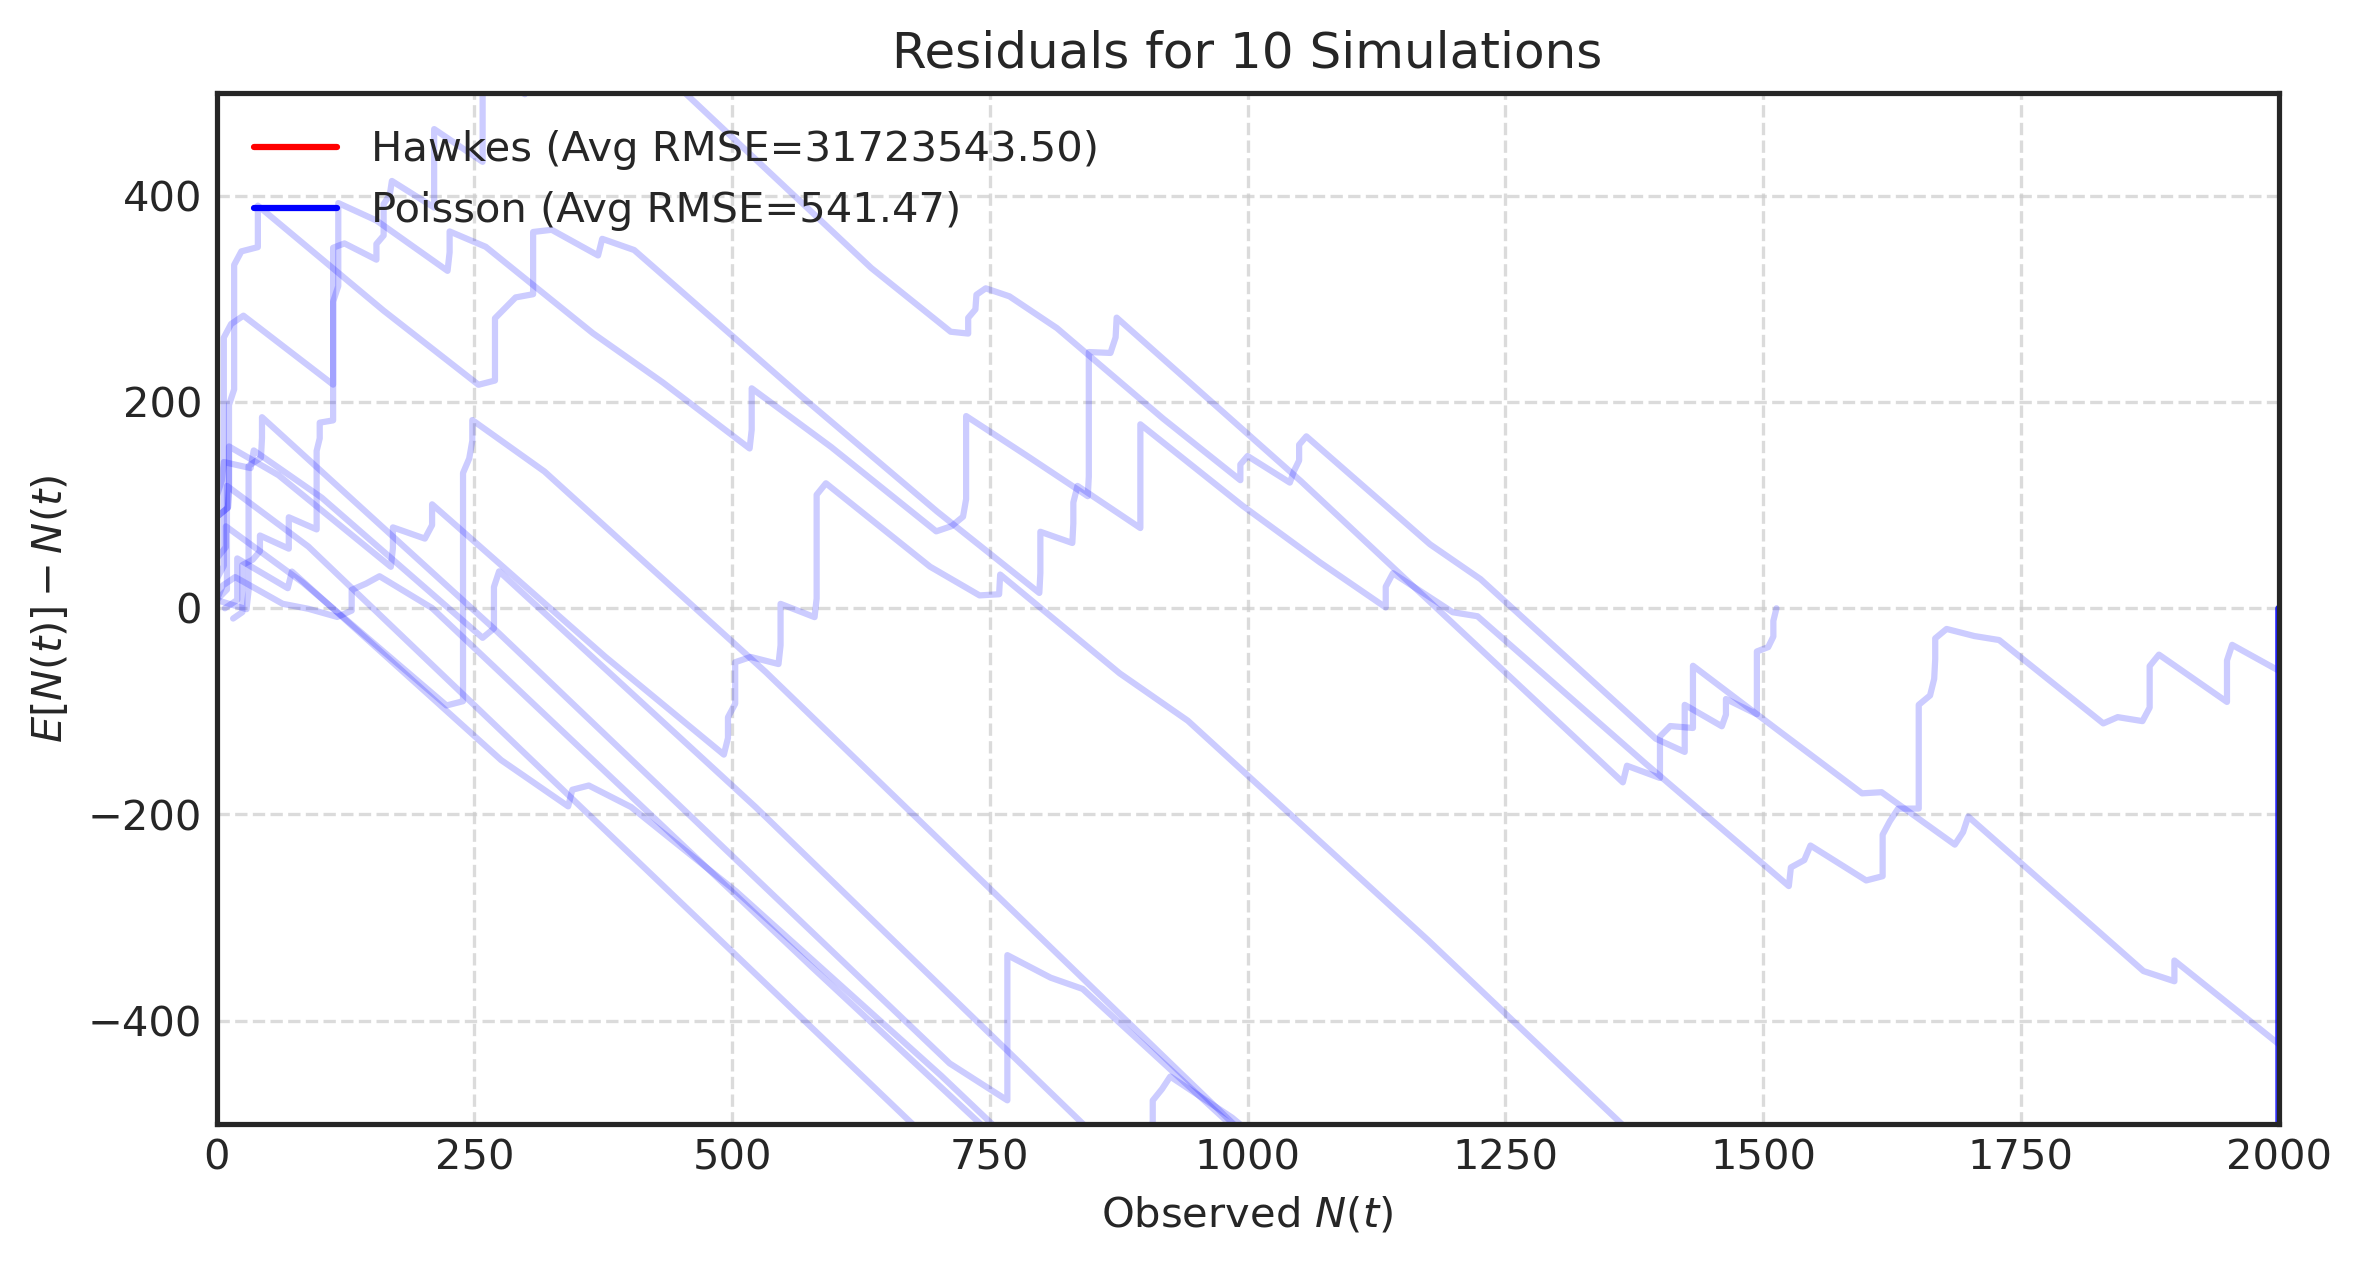
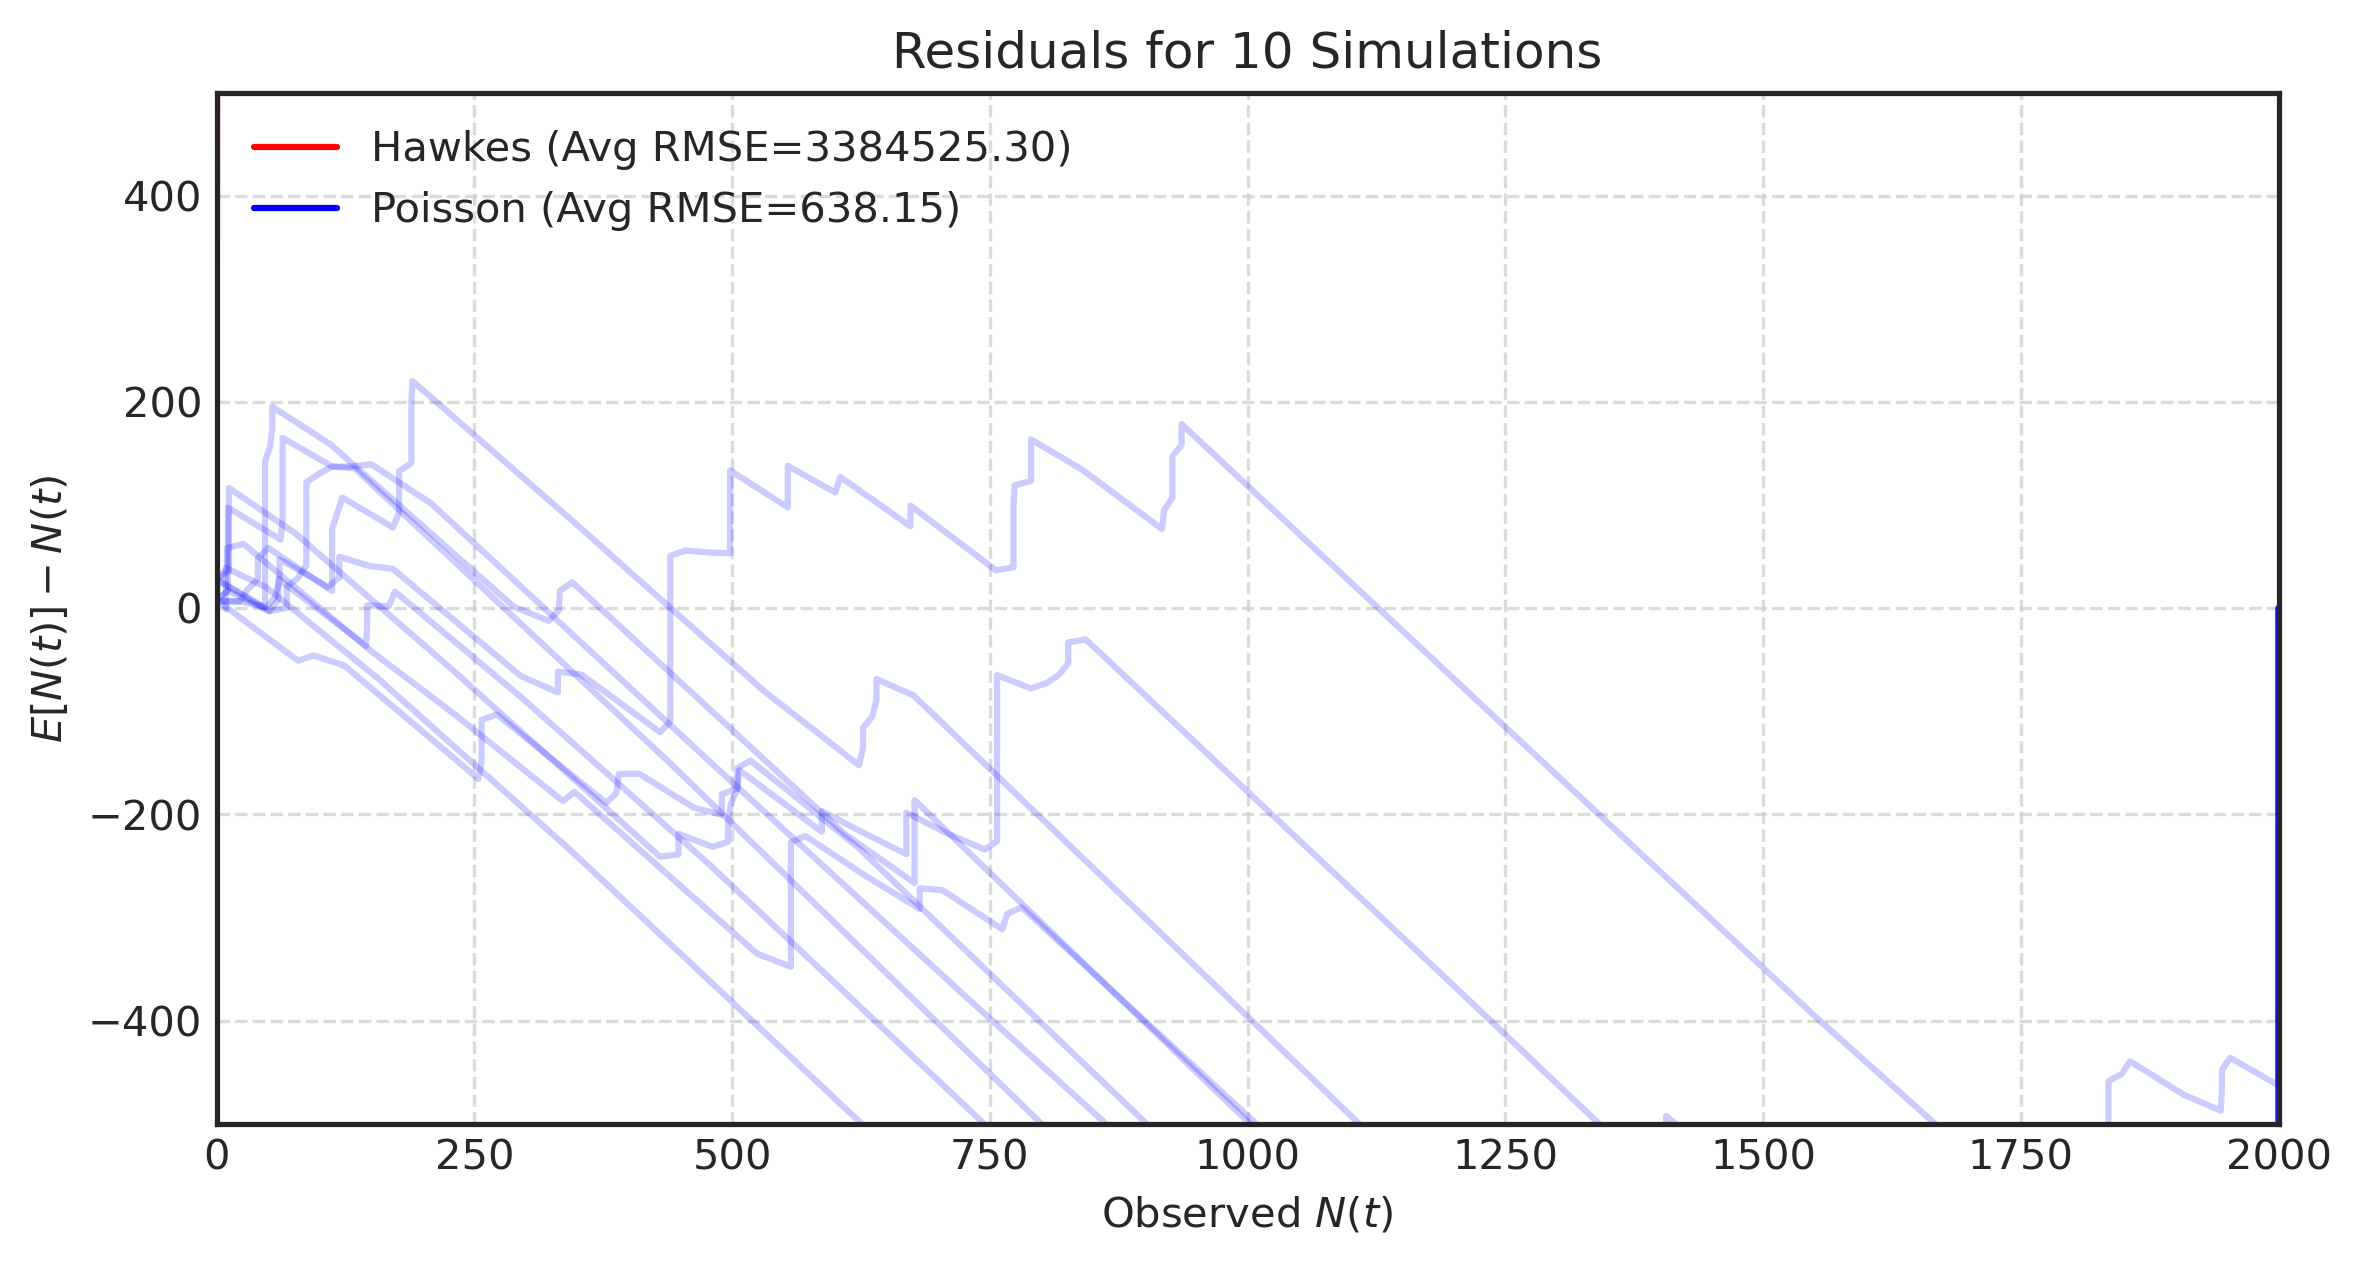
grad negative typo

diff --git a/src/hawkes/models/hawkes_full_rank.py b/src/hawkes/models/hawkes_full_rank.py
@@ -78,11 +78,12 @@ class HawkesFullRankNLL(HawkesNLL):
             dim=1,
         )  # Shape: [1, M, K]
         alpha_grad = (intensity_state_sum - exp_decay_sum).permute(2, 0, 1)
+
         gamma_grad = None  # * grad_output
 
         return (
-            mu_grad * grad_output,
-            alpha_grad * grad_output,
+            -mu_grad * grad_output,
+            -alpha_grad * grad_output,
             gamma_grad,
         ) + (None,) * 7
 

diff --git a/src/hawkes/models/hawkes_base.py b/src/hawkes/models/hawkes_base.py
@@ -295,6 +295,7 @@ class HawkesBase(torch.nn.Module, ABC):
             for n, p in self.named_parameters():
                 if torch.isnan(p.grad).any():
                     self.logger.error(f"Gradient of {n} is nan at epoch {epoch + 1}")
+                    self.logger.info(p.grad)
                     raise ValueError(f"Gradient of {n} is nan")
 
             optimizer.step()

diff --git a/examples/fit_model.py b/examples/fit_model.py
@@ -112,7 +112,7 @@ match args.model_type:
         ).to(args.device)
 
 _ = model_est.fit(
-    1_000_000, ti, mi, fit_config
+    float(ti.max()), ti, mi, fit_config
 )  # Use a large number to capture all events
 
 # Save estimated model
